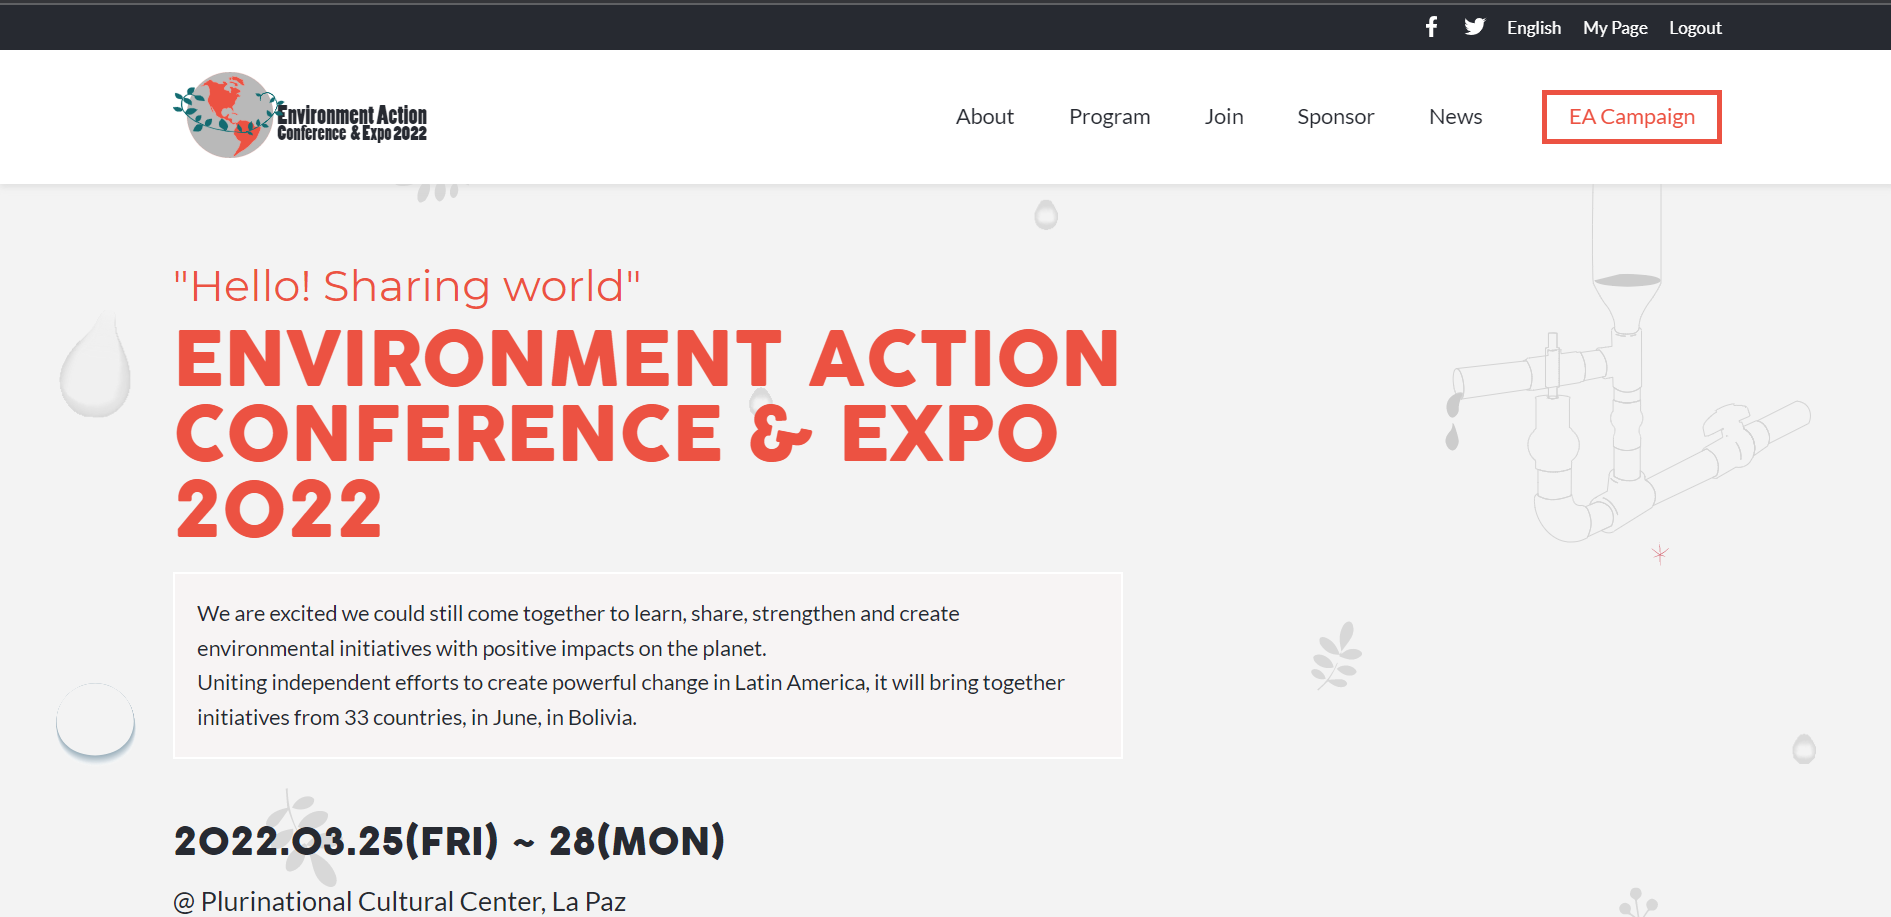
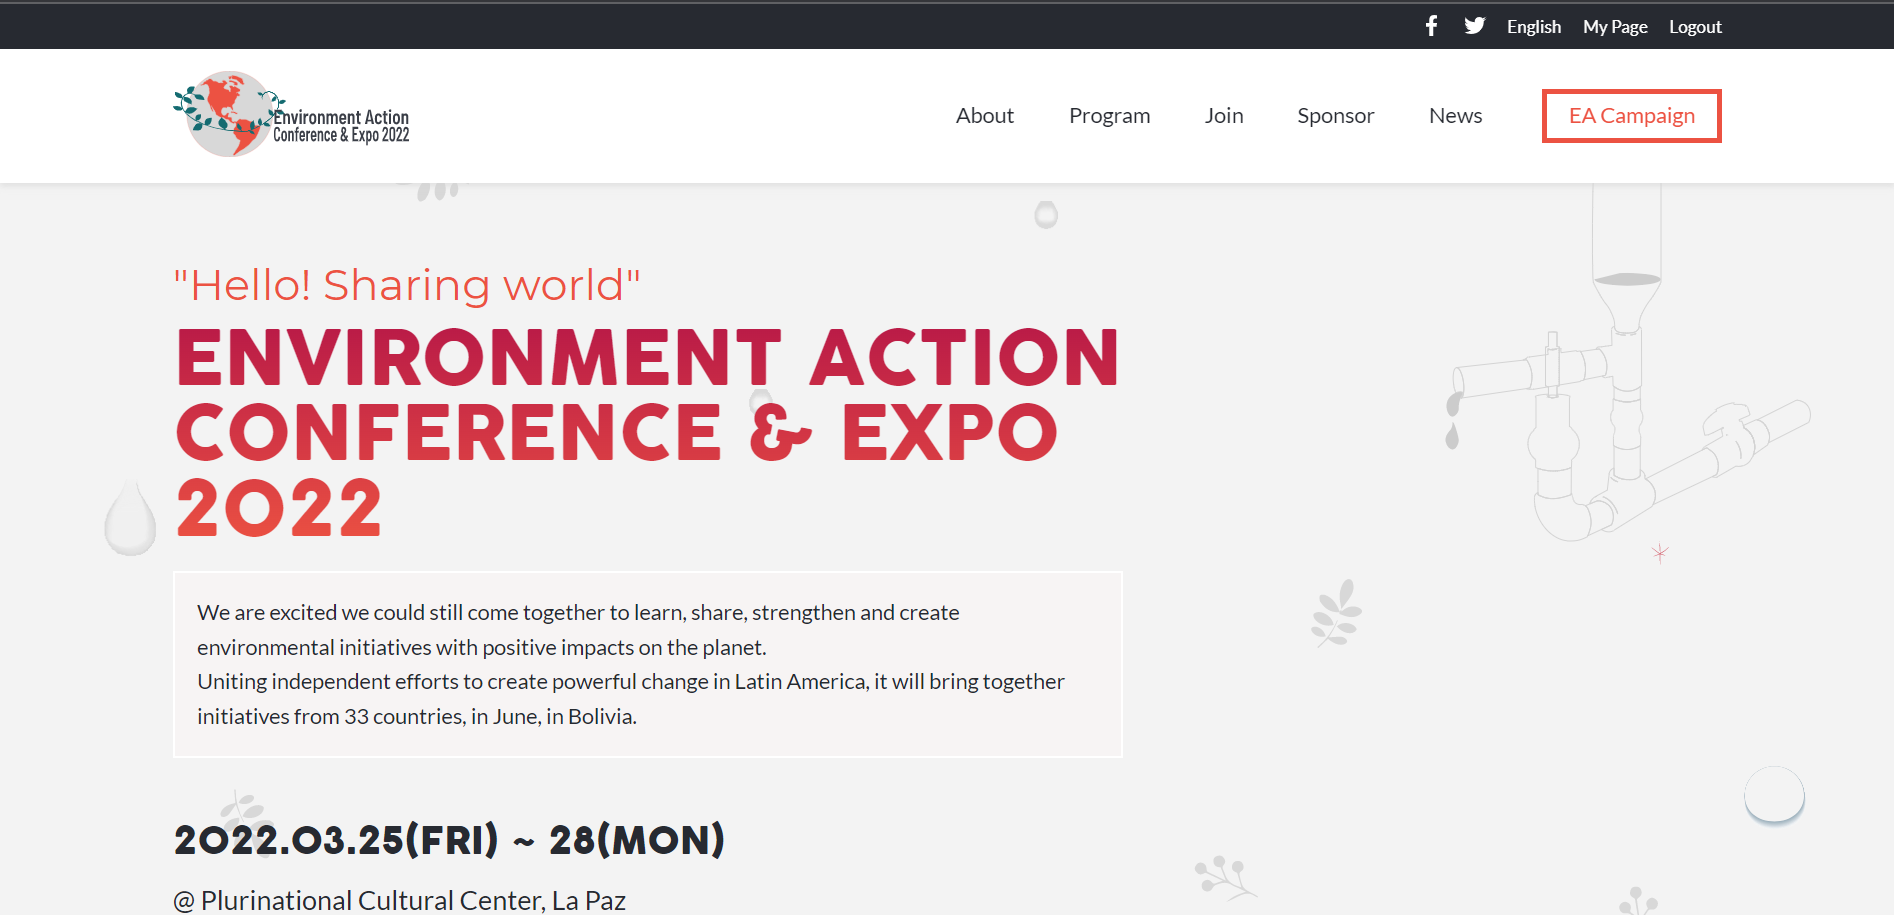
Change main header color

diff --git a/index.html b/index.html
@@ -65,7 +65,7 @@
     <div class="container only-home">
       <div class="main__caption">
         <p class="title__supporting-text">"Hello! Sharing world"</p>
-        <h1 class="section__title">ENVIRONMENT ACTION CONFERENCE & EXPO 2022</h1>
+        <h1 class="section__title gradient__text">ENVIRONMENT ACTION CONFERENCE & EXPO 2022</h1>
         <div class="main__caption-description">
           <p>We are excited we could still come together to learn, share, strengthen and create environmental
             initiatives with

diff --git a/scss/partials/_base.scss b/scss/partials/_base.scss
@@ -88,6 +88,17 @@ a.nav__link {
   }
 }
 
+.gradient__text {
+  background-color: #ec5242;
+  background-image: linear-gradient(0deg, #ec5242, #b91a47);
+  background-size: 100%;
+  -webkit-background-clip: text;
+  // -moz-background-clip: text;
+  -webkit-text-fill-color: transparent;
+  // -moz-text-fill-color: transparent;
+  // background-clip: text;
+}
+
 .title__supporting-text {
   @include set-font($ff:$ff-support, $fs: 1.5rem, $lh: 1, $color:$accent);
 }

diff --git a/css/main.css b/css/main.css
@@ -110,6 +110,14 @@ a.nav__link:hover .nav__icon-svg {
   left: calc(50% - 1.5rem);
 }
 
+.gradient__text {
+  background-color: #ec5242;
+  background-image: linear-gradient(0deg, #ec5242, #b91a47);
+  background-size: 100%;
+  -webkit-background-clip: text;
+  -webkit-text-fill-color: transparent;
+}
+
 .title__supporting-text {
   font-family: "Montserrat", sans-serif;
   font-size: 1.5rem;
